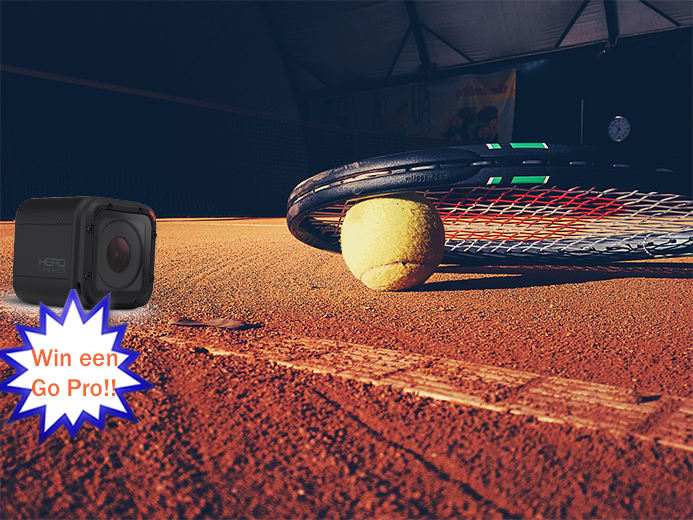
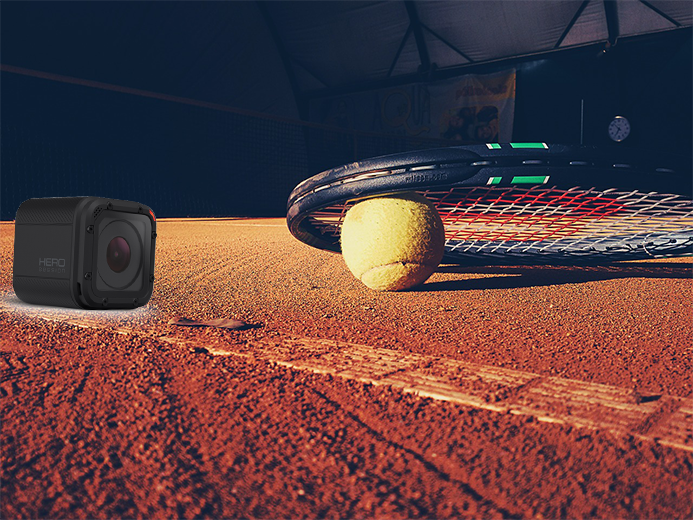
changed header content

Changed region(s): [[0.0, 0.5538, 0.2424, 0.8615]]

diff --git a/frontend/web/css/site.css b/frontend/web/css/site.css
@@ -434,7 +434,7 @@ table tr {
   color: white;
 }
 .header {
-  height:90vh;
+  height:70vh;
   padding-top: 65px;
   margin-top: -50px;
   text-align: center;

diff --git a/frontend/views/site/index.php b/frontend/views/site/index.php
@@ -20,36 +20,19 @@
     <!-- a -->
     <hr class="hr-invisible-sm">
     
-    <div class="row text-center">
-      <div class="col-md-10 col-md-offset-1 col-sm-10 col-sm-offset-1 col-xs-10 col-xs-offset-1">
-      <h3 style="color: white;"><b><?= Yii::t('app', 'Soon the online contest will begin!'); ?></b></h3>
-      <hr class="hr-invisible-sm">
-      <h3 style="color: white;"><b><?= Yii::t('app', 'Leave your email behind and get your first points!'); ?></b></h3>
+    <div class="row index-contest-signup">
+      <div class="col-md-5 col-md-offset-1 col-sm-12">
+        <h2 style="color: white;"><b><?= Yii::t('app', 'WELCOME TO THE CONTEST'); ?></b></h2>
+        <p class="contest-p-header"><?= Yii::t('app', 'In this contest you can win various prices such as a GoPro Session, a Samsung GearFit 2, a Drone and many more!'); ?></p>
+        <p class="contest-p-header"><?= Yii::t('app', 'You can earn points in the contest by completing different activities, such as inviting your friends, sharing on social media and other actions!'); ?></p>
+        <p class="contest-p-header"><?= Yii::t('app', 'After the contest you will be invited to join the sportlery community. This contest helps the community to spread the word and expand.'); ?></p>
+        <p class="contest-p-header"><?= Yii::t('app', 'You will be able to find people, with the same level in sports as you, in your neighbourhood, challenge each other, create and join sporting events, and many more. Good Luck! And go get yourself that GoPro!'); ?></p>
       </div>
-      <div class="mailing col-md-12">
-
-        <!-- Begin MailChimp Signup Form -->
-        <style type="text/css">
-          #mc_embed_signup{ clear:left; font:14px Helvetica,Arial,sans-serif; width:100%;}
-          /* Add your own MailChimp form style overrides in your site stylesheet or in this style block.
-             We recommend moving this block and the preceding CSS link to the HEAD of your HTML file. */
-        </style>
-        <div id="mc_embed_signup">
-        <form action="//sportlery.us15.list-manage.com/subscribe/post?u=aa872f36fd0b3fc238705937c&amp;id=3032f2fb1e" method="post" id="mc-embedded-subscribe-form" name="mc-embedded-subscribe-form" class="validate" target="_blank" novalidate>
-            <div id="mc_embed_signup_scroll">
-          
-          <input type="email" value="" name="EMAIL" class="email" id="mce-EMAIL" placeholder="<?= Yii::t('app', 'Email Address') ?>" required>
-            <!-- real people should not fill this in and expect good things - do not remove this or risk form bot signups-->
-            <div style="position: absolute; left: -5000px;" aria-hidden="true"><input type="text" name="b_aa872f36fd0b3fc238705937c_3032f2fb1e" tabindex="-1" value=""></div>
-            <div class="clear" style="min-width: 25%; display: inline-block;"><input type="submit" value="<?= Yii::t('app', 'Subscribe') ?>" name="subscribe" id="mc-embedded-subscribe" class="button"></div>
-            </div>
-        </form>
-        </div>
-
-        <!--End mc_embed_signup-->        
-
-      </div>
-    </div>
+      <div class="col-md-4 col-md-offset-1 col-sm-12">
+        <!-- Video Contest -->
+        <iframe style="width: 100%; height:315px;"  src="https://www.youtube.com/embed/BfjCgfLW7Ec" frameborder="0" allowfullscreen></iframe>
+      </div> 
+   </div>
 
     <!-- /a -->
 
